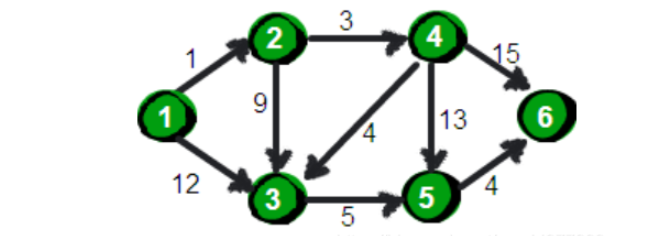
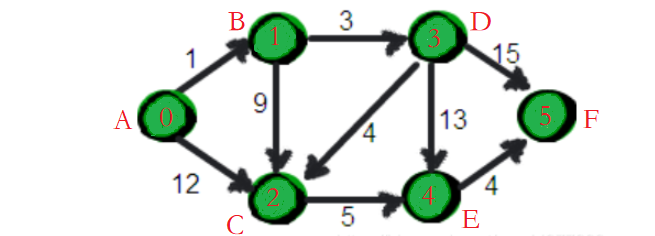
update dijkstra

diff --git a/algorithm/path-planning/dijkstra/dijkstra.cpp b/algorithm/path-planning/dijkstra/dijkstra.cpp
@@ -1,6 +1,10 @@
 #include <iostream>
 #include <algorithm>
 #include <vector>
+#include <string>
+#include <queue>
+#include <unordered_map>
+#include <stdint.h>
 
 using namespace std;
 
@@ -15,23 +19,92 @@ using namespace std;
     4->6: 15
     5->6: 4
 
-       1  2  3  4  5  6
-    1  0  1  12 &  &  &
-    2  &  0  9  3  &  &
-    3  &  &  0  &  5  &  
-    4  &  &  4  0  13 15
-    5  &  &  &  &  &  4
-    6  &  &  &  &  &  0
+       0  1  2  3  4  5
+    0  0  1  12 &  &  &
+    1  &  0  9  3  &  &
+    2  &  &  0  &  5  &  
+    3  &  &  4  0  13 15
+    4  &  &  &  &  &  4
+    5  &  &  &  &  &  0
 */
 
-void initGraph()
+class Node
 {
+public:
+    Node() : parent(NULL), cost(UINT32_MAX) {}
 
+    bool operator<(const Node& r) { return this->cost < r.cost; }
+    Node *parent;
+    uint32_t cost;
+    std::string name;
+};
+
+class dijkstra
+{
+private:
+    int graph[6][6];
+    std::unordered_map<std::string, Node> nodes;
+    std::priority_queue<Node> openSet;
+
+public:
+    dijkstra() {}
+    ~dijkstra() {}
+
+    void setOrigin(Node& node)
+    {
+        openSet.push(node);
+    }
+
+    void setDestination()
+    {
+
+    }
+};
+
+void initGraph(int (*graph)[6])
+{
+    for (size_t i = 0; i < 6; i++)
+    {
+        for (int j = 0; j < 6; j++)
+        {
+            graph[i][j] = INT32_MAX;
+        }
+    }
+
+    graph[0][1] = 1;
+    graph[0][2] = 12;
+    graph[1][2] = 9;
+    graph[1][3] = 3;
+    graph[2][4] = 5;
+    graph[3][2] = 4;
+    graph[3][4] = 13;
+    graph[3][5] = 15;
+    graph[4][5] = 4;
 }
 
-void dijkstra()
+void initNode(std::unordered_map<std::string, Node> &nodes)
 {
+    for (size_t i = 0; i < nodes.size(); i++)
+    {
+        Node node;
+        node.name = 'A' + i;
+        nodes[node.name] = node;
+    }
+}
 
+void test_dijkstra()
+{
+    int graph[6][6];
+    std::unordered_map<std::string, Node> nodes;
+    std::priority_queue<Node> openSet;
+
+    initGraph(graph);
+    while (1)
+    {
+        const Node& minNode = openSet.top();
+        openSet.pop();
+    }
+    
 }
 
 int main()
